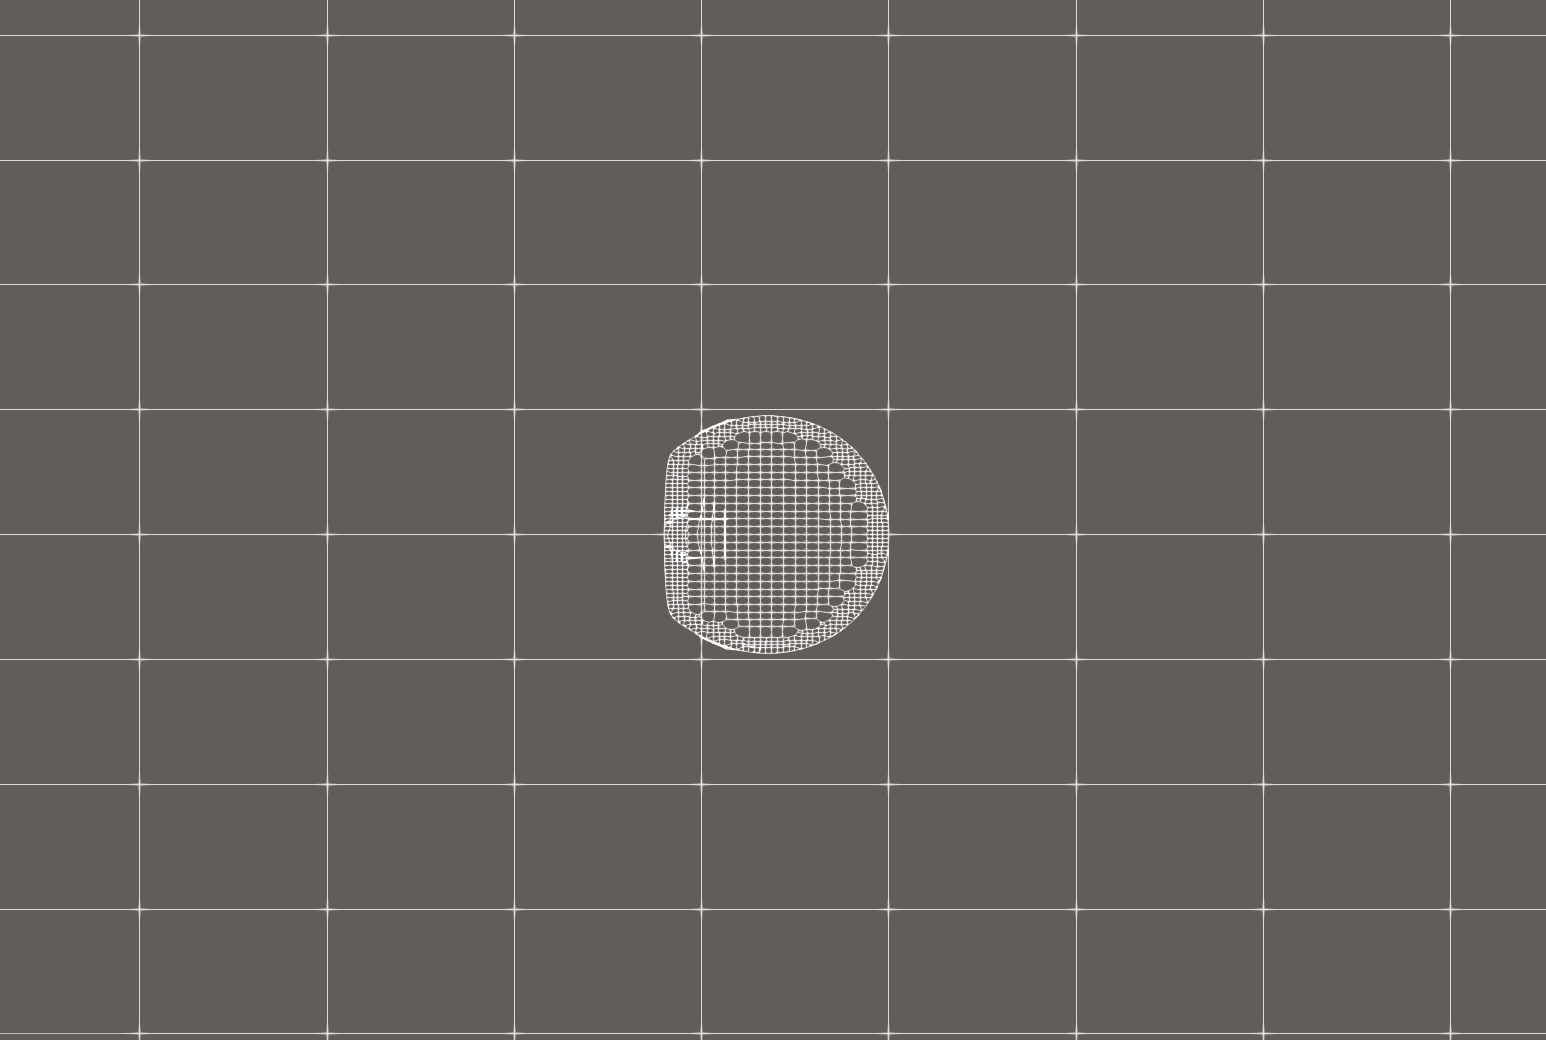
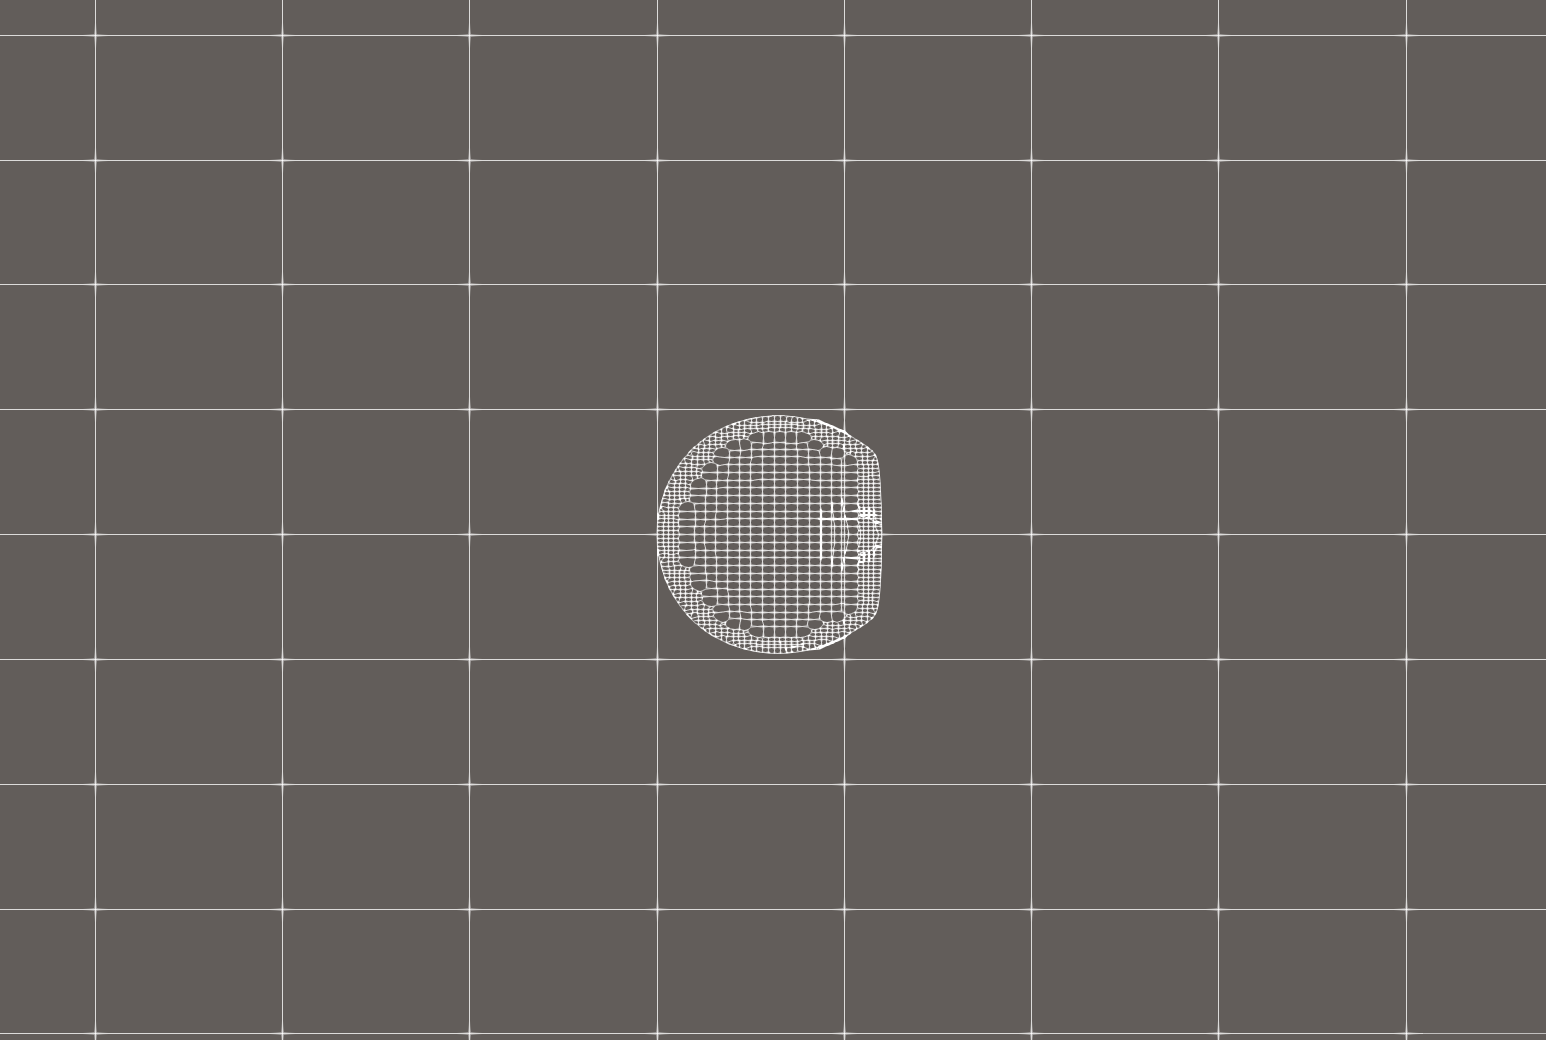
Added the rest of the images

Changed region(s): [[0.4036, 0.4, 0.5899, 0.6462], [0.9004, 0.9846, 0.9625, 1.0], [0.031, 0.9846, 0.0931, 1.0]]

diff --git a/README.md b/README.md
@@ -66,8 +66,11 @@ Mesh cross-sections extracted from ParaView (snappyHexMesh output, mid-span slic
 | `basic-half-circle` | ![basic-half-circle mesh](images/mesh/half-circle.png) |
 | `sharp-nose-flat-tail` | ![sharp-nose-flat-tail mesh](images/mesh/sharp-nose-flat-tail.png) |
 | `dfs-truncated-circle` | ![dfs-truncated-circle mesh](images/mesh/dfs-truncated-circle.png) |
+| `sharp-nose-only` | ![sharp-nose-only mesh](images/mesh/sharp-nose-only.png) |
+| `sharp-nose-sharp-tail` | ![sharp-nose-sharp-tail mesh](images/mesh/sharp-nose-sharp-tail.png) |
+| `sharp-nose-rounded-tail` | ![ sharp-nose-rounded-tail mesh](images/mesh/sharp-nose-rounded-tail.png) |
+| `truncated-circle` | ![truncated-circle mesh](images/mesh/truncated-circle.png) |
 
-<!-- Missing: sharp-nose-only, sharp-nose-sharp-tail, sharp-nose-rounded-tail, truncated-circle -->
 
 ### Drag Visualization
 
@@ -77,8 +80,10 @@ Mesh cross-sections extracted from ParaView (snappyHexMesh output, mid-span slic
 | `basic-half-circle` | ![basic-half-circle drag](images/drag/half-circle-drag.png) |
 | `sharp-nose-flat-tail` | ![sharp-nose-flat-tail drag](images/drag/sharp-nose-flat-tail-drag.png) |
 | `dfs-truncated-circle` | ![dfs-truncated-circle drag](images/drag/dfs-truncated-circle-drag.png) |
-
-<!-- Missing: sharp-nose-only, sharp-nose-sharp-tail, sharp-nose-rounded-tail, truncated-circle -->
+| `sharp-nose-only` | ![sharp-nose-only drag](images/drag/sharp-nose-only-drag.png) |
+| `sharp-nose-sharp-tail` | ![sharp-nose-sharp-tail drag](images/drag/sharp-nose-sharp-tail-drag.png) |
+| `sharp-nose-rounded-tail` | ![ sharp-nose-rounded-tail drag](images/drag/sharp-nose-rounded-tail-drag.png) |
+| `truncated-circle` | ![truncated-circle drag](images/drag/truncated-circle-drag.png) |
 
 
 ## Repository Structure
